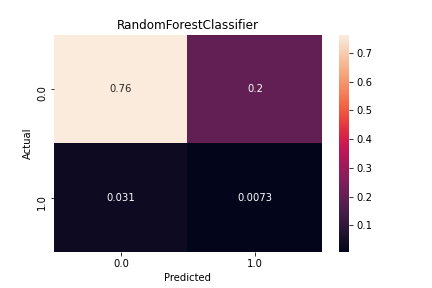
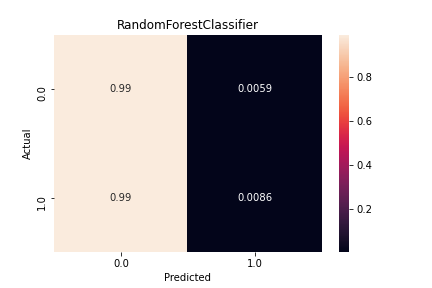
Normalización por filas
Para una mejor visualización de matrices de confusión

diff --git a/Reportes de clasificación/RandomForestClassifier.tex b/Reportes de clasificación/RandomForestClassifier.tex
@@ -3,10 +3,10 @@ RandomForestClassifier
 \toprule
 {} &  precision &    recall &  f1-score &      support \\
 \midrule
-0.0          &   0.960604 &  0.795005 &  0.869994 &  2883.000000 \\
-1.0          &   0.035889 &  0.189655 &  0.060357 &   116.000000 \\
-accuracy     &   0.771591 &  0.771591 &  0.771591 &     0.771591 \\
-macro avg    &   0.498246 &  0.492330 &  0.465175 &  2999.000000 \\
-weighted avg &   0.924836 &  0.771591 &  0.838678 &  2999.000000 \\
+0.0          &   0.961422 &  0.994103 &  0.977490 &  2883.000000 \\
+1.0          &   0.055556 &  0.008621 &  0.014925 &   116.000000 \\
+accuracy     &   0.955985 &  0.955985 &  0.955985 &     0.955985 \\
+macro avg    &   0.508489 &  0.501362 &  0.496208 &  2999.000000 \\
+weighted avg &   0.926384 &  0.955985 &  0.940258 &  2999.000000 \\
 \bottomrule
 \end{tabular}

diff --git a/Reportes de clasificación/AdaBoostClassifier.tex b/Reportes de clasificación/AdaBoostClassifier.tex
@@ -3,10 +3,10 @@ AdaBoostClassifier
 \toprule
 {} &  precision &    recall &  f1-score &      support \\
 \midrule
-0.0          &   0.963312 &  0.992716 &  0.977793 &  2883.000000 \\
-1.0          &   0.250000 &  0.060345 &  0.097222 &   116.000000 \\
-accuracy     &   0.956652 &  0.956652 &  0.956652 &     0.956652 \\
-macro avg    &   0.606656 &  0.526530 &  0.537508 &  2999.000000 \\
-weighted avg &   0.935721 &  0.956652 &  0.943733 &  2999.000000 \\
+0.0          &   0.961847 &  0.996878 &  0.979050 &  2883.000000 \\
+1.0          &   0.181818 &  0.017241 &  0.031496 &   116.000000 \\
+accuracy     &   0.958986 &  0.958986 &  0.958986 &     0.958986 \\
+macro avg    &   0.571833 &  0.507060 &  0.505273 &  2999.000000 \\
+weighted avg &   0.931676 &  0.958986 &  0.942399 &  2999.000000 \\
 \bottomrule
 \end{tabular}

diff --git a/main.py b/main.py
@@ -46,7 +46,7 @@ def classification(pipeline, title, n_splits=5, X=X, Y=Y, average_method = 'macr
         print('-'*50)
 
     frame = pd.DataFrame({'y_Actual':y_values,'y_Predicted':predictions}, columns = ['y_Actual','y_Predicted'])
-    confusion_matrix = pd.crosstab(frame['y_Actual'], frame['y_Predicted'], rownames=['Actual'], colnames=['Predicted'], normalize=True)
+    confusion_matrix = pd.crosstab(frame['y_Actual'], frame['y_Predicted'], rownames=['Actual'], colnames=['Predicted'], normalize='index')
     sn.heatmap(confusion_matrix, annot=True)
     plt.title(title)
     fig = plt.gcf()
